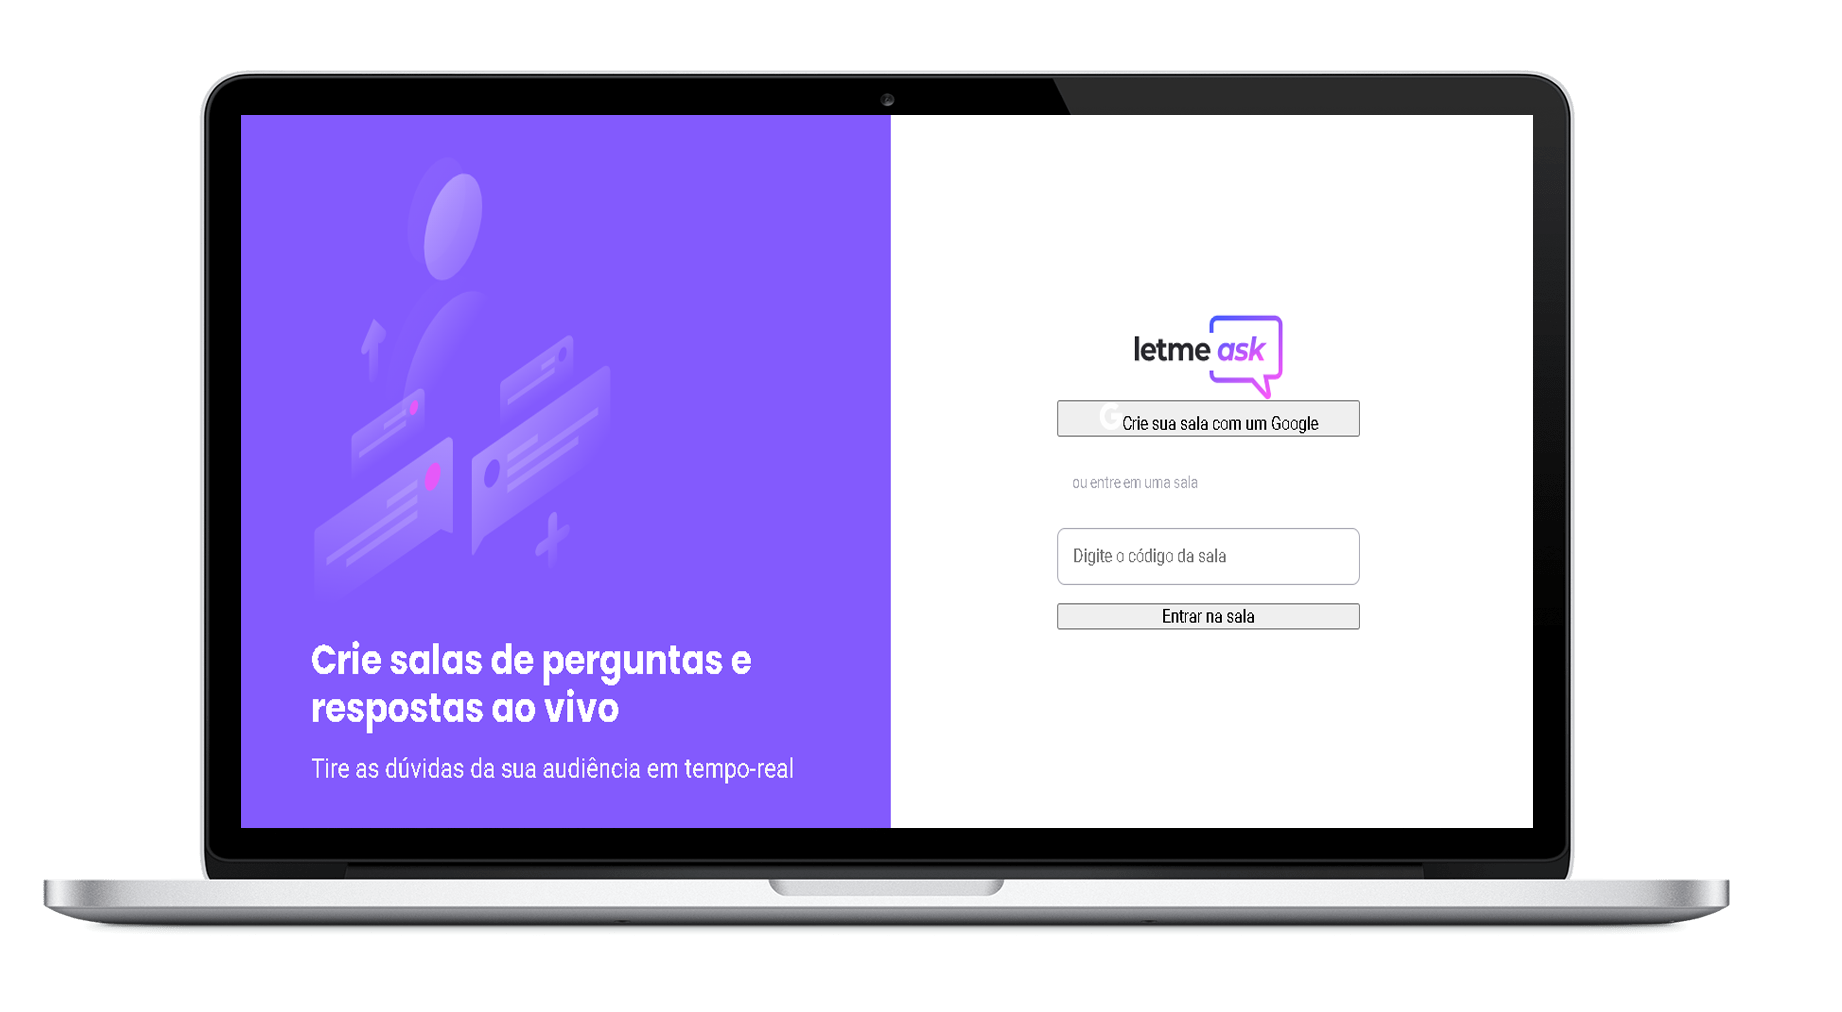
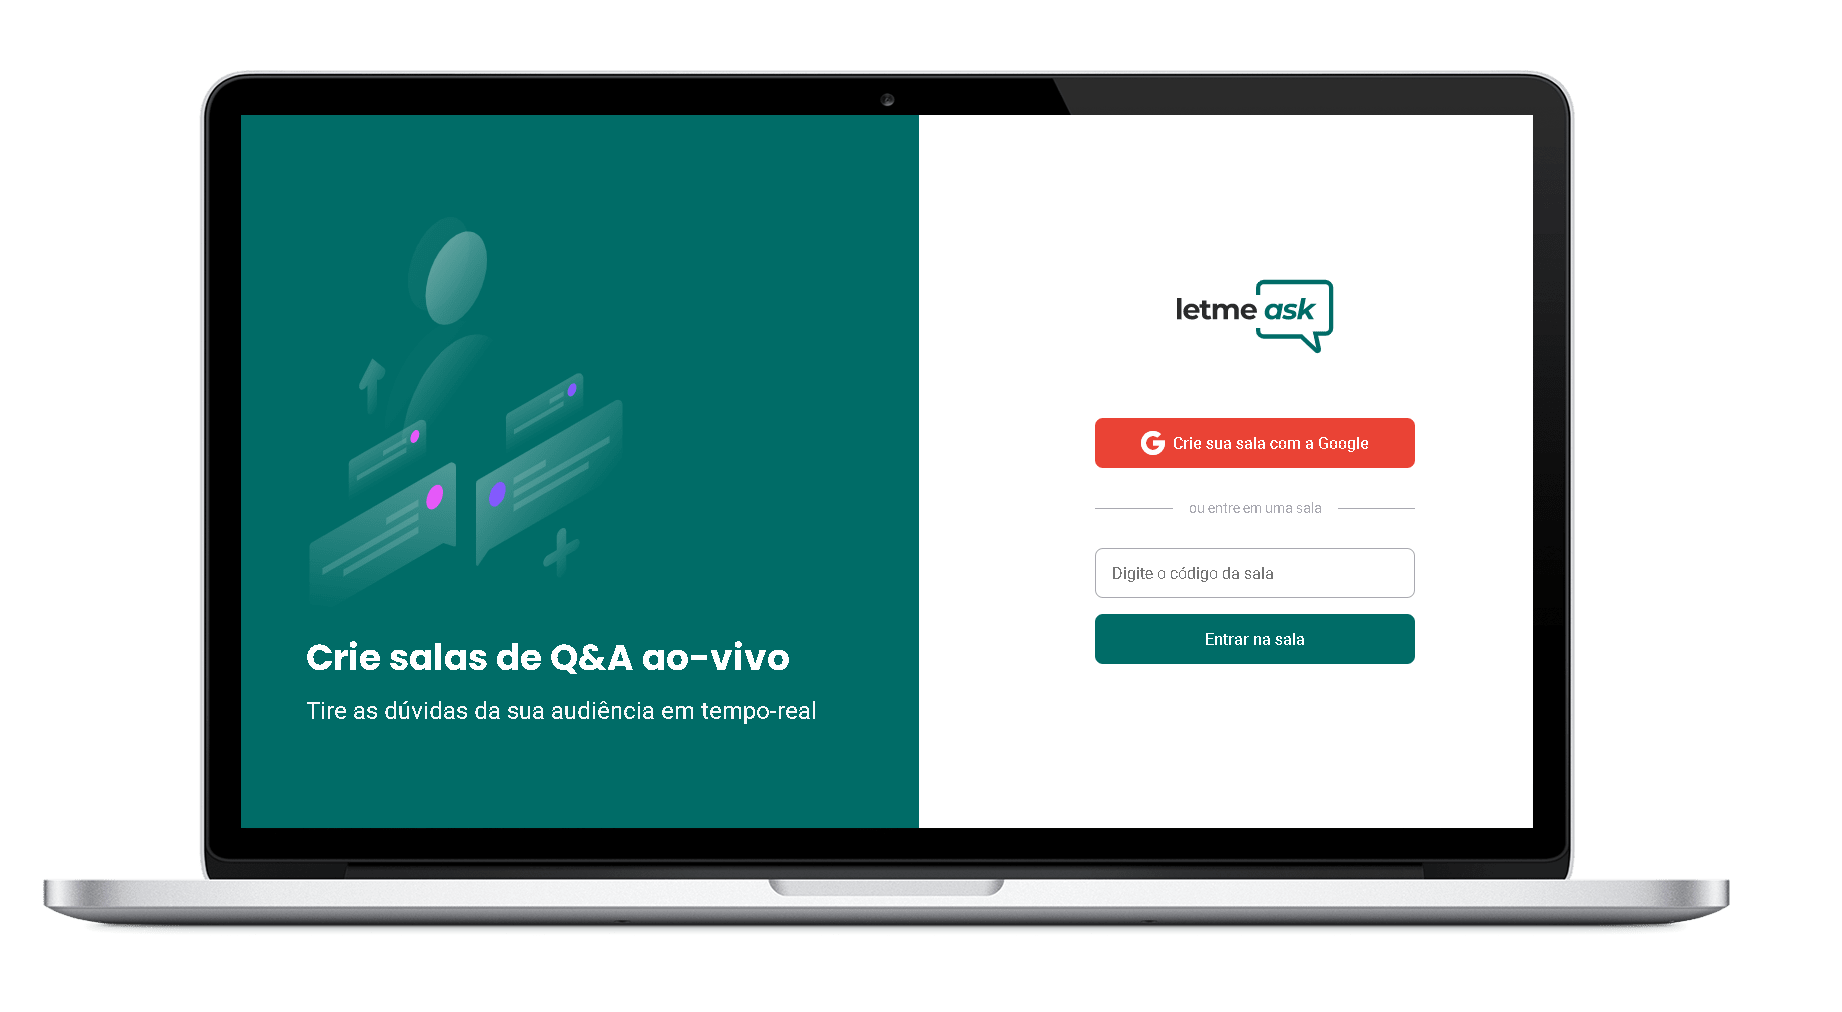
estilizando o componente button

Changed region(s): [[0.1238, 0.0919, 0.5261, 0.8271], [0.5879, 0.2757, 0.7736, 0.4901], [0.5879, 0.5208, 0.7736, 0.6739]]

diff --git a/src/styles/button.scss b/src/styles/button.scss
@@ -1,0 +1,30 @@
+.button{
+
+    margin-top:64px;
+    height:50px;
+    border-radius:8px;
+    font-weight: 500;
+    background: var(--roxo);
+    color:var(--white);
+    padding: 0 32px;
+
+    display:flex;
+    justify-content:center;
+    align-items: center;
+
+    cursor: pointer;
+    border:0;
+
+    transition: 0.2s;
+    img{
+        margin-right: 8px;
+    }
+
+    &:not(:disabled):hover{
+        filter:brightness(0.9);        
+    }
+    &:disabled{
+        opacity: 0.6;
+        cursor:not-allowed;
+    }
+}

diff --git a/src/styles/global.scss b/src/styles/global.scss
@@ -9,9 +9,13 @@
     --branco-text:#f8f8f8;
     --cinza-escuro:#29292e;
     --cinzaclaro: #a8a8b3;
-    --roxo:#835afd;
     --red:#ea4335;
-
+    
+    --roxo:#006c67;
+    --green:#003844;
+    --pink:#f194b4;
+    --yellow:#ffb100;
+    --rosa:#ffebc6;
 }
 
 body{

diff --git a/src/components/Button.tsx b/src/components/Button.tsx
@@ -1,5 +1,7 @@
 import { ButtonHTMLAttributes } from "react";
 
+import '../styles/button.scss';
+
 type ButtonProps = ButtonHTMLAttributes<HTMLButtonElement>;
 
 export function Button(props: ButtonProps){
